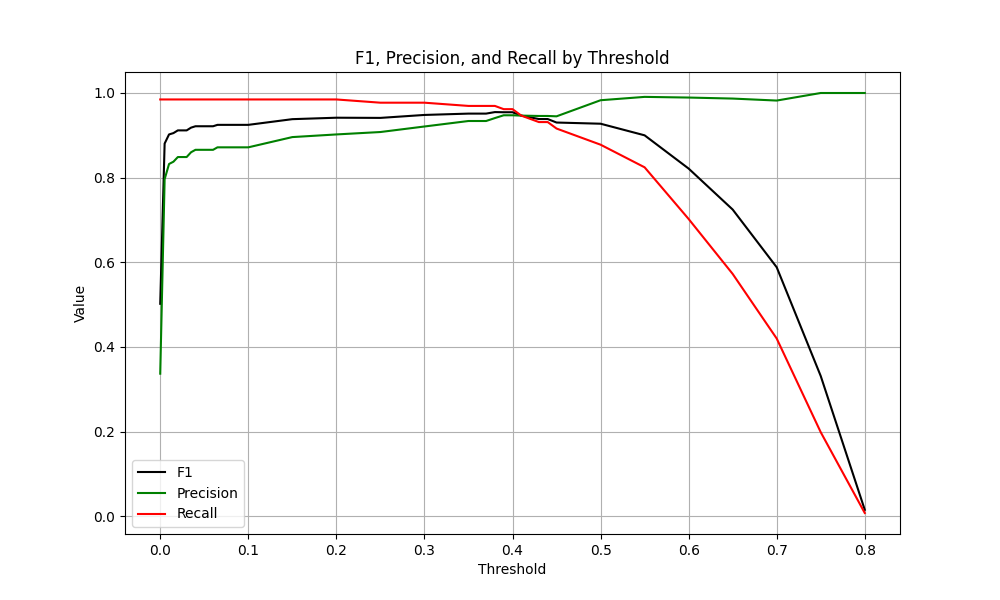
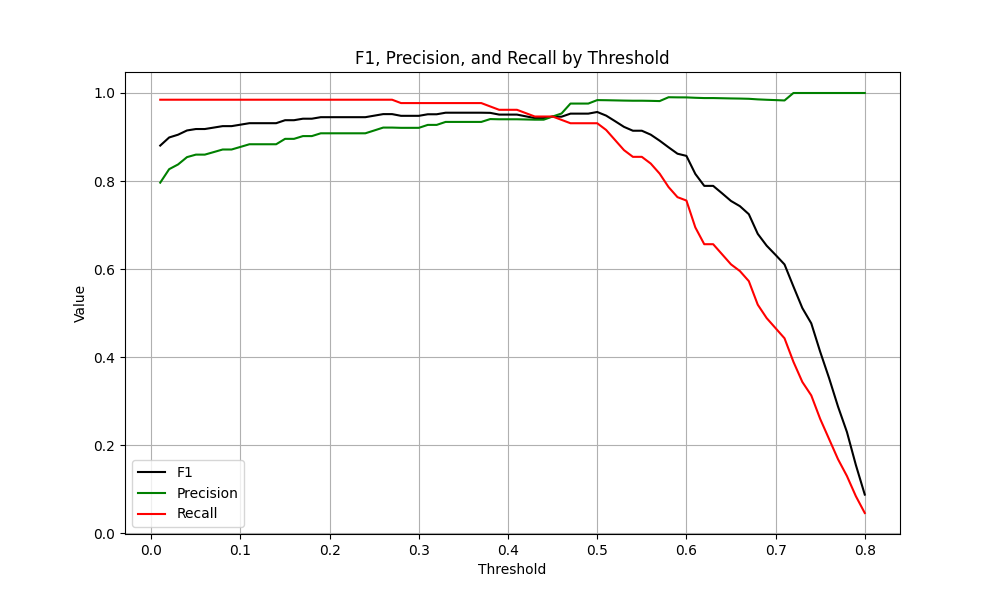
tuning

diff --git a/results.py b/results.py
@@ -1,17 +1,22 @@
 import pandas as pd
 import matplotlib.pyplot as plt
 
+pd.set_option("display.max_rows", None)
+
 
 df0 = pd.read_csv("tuning_results/general/metrics_general.csv", index_col=[0])
 df1 = pd.read_csv("tuning_results/focus1/metrics_focus1.csv", index_col=[0])
 df2 = pd.read_csv("tuning_results/focus2/metrics_focus2.csv", index_col=[0])
 df3 = pd.read_csv("tuning_results/focus3/metrics_focus3.csv", index_col=[0])
+df4 = pd.read_csv("tuning_results/focus4/metrics_focus4.csv", index_col=[0])
+df5 = pd.read_csv("tuning_results/focus5/metrics_focus5.csv", index_col=[0])
 
 concatenated_df = pd.concat([df0, df1, df2, df3])
+concatenated_df = pd.concat([df5])
 concatenated_df.set_index("Threshold", inplace=True)
 concatenated_df.sort_index(inplace=True)
 df = concatenated_df.loc[~concatenated_df.index.duplicated(keep="first")]
-# print(df)
+print(df)
 
 
 plt.figure(figsize=(10, 6))

diff --git a/yolo_validation_tuning.py b/yolo_validation_tuning.py
@@ -30,7 +30,9 @@ if __name__ == "__main__":
     modelpath = "models/fine_tuned.pt"
     valdir = "yolo_dataset/validation/images"
     labelsdir = "yolo_dataset/validation/labels"
-    focus_type = "focus4"
+    focus_type = "focus5"
+
+    os.makedirs(f"tuning_results/{focus_type}", exist_ok=False)
 
     model = YOLO(modelpath)
 
@@ -42,7 +44,7 @@ if __name__ == "__main__":
 
     # List to hold each iteration's metrics
     metrics_data = []
-    for _threshold in generate_linspace(0.3, 0.5, 0.01):
+    for _threshold in generate_linspace(0.01, 0.8, 0.01):
         filename = generate_unique_filename(f"tuning_results/{focus_type}/report")
         predictions = []
         pred_probabilities = []

diff --git a/yolo_testing.py b/yolo_testing.py
@@ -152,7 +152,7 @@ if __name__ == "__main__":
     pred_probabilities = []
     detection_counts = []
     for test_image in test_images:
-        result = model.predict(test_image, conf=0.50, device=0, augment=True)[0]
+        result = model.predict(test_image, conf=0.45, device=0, augment=True)[0]
         # print(result)
         boxes = result.boxes
 
@@ -181,4 +181,4 @@ if __name__ == "__main__":
     print(metrics.compute_f1())
     print(metrics.compute_precision())
     print(metrics.compute_recall())
-    metrics.save_and_show_plots("metrics_test_conf=0.5_augment.jpeg", show=True)
+    metrics.save_and_show_plots("metrics_test_conf=0.45_augment.jpeg", show=True)

diff --git a/onnx_inference.py b/onnx_inference.py
@@ -12,7 +12,7 @@ import matplotlib.pyplot as plt
 # )
 
 ONNX_MODEL = "./models/fine_tuned.onnx"
-CONFIDENCE_THRES = 0.4
+CONFIDENCE_THRES = 0.45
 IOU_THRES = 0.7
 TEST_DIR = "yolo_dataset/mar24/test"
 
